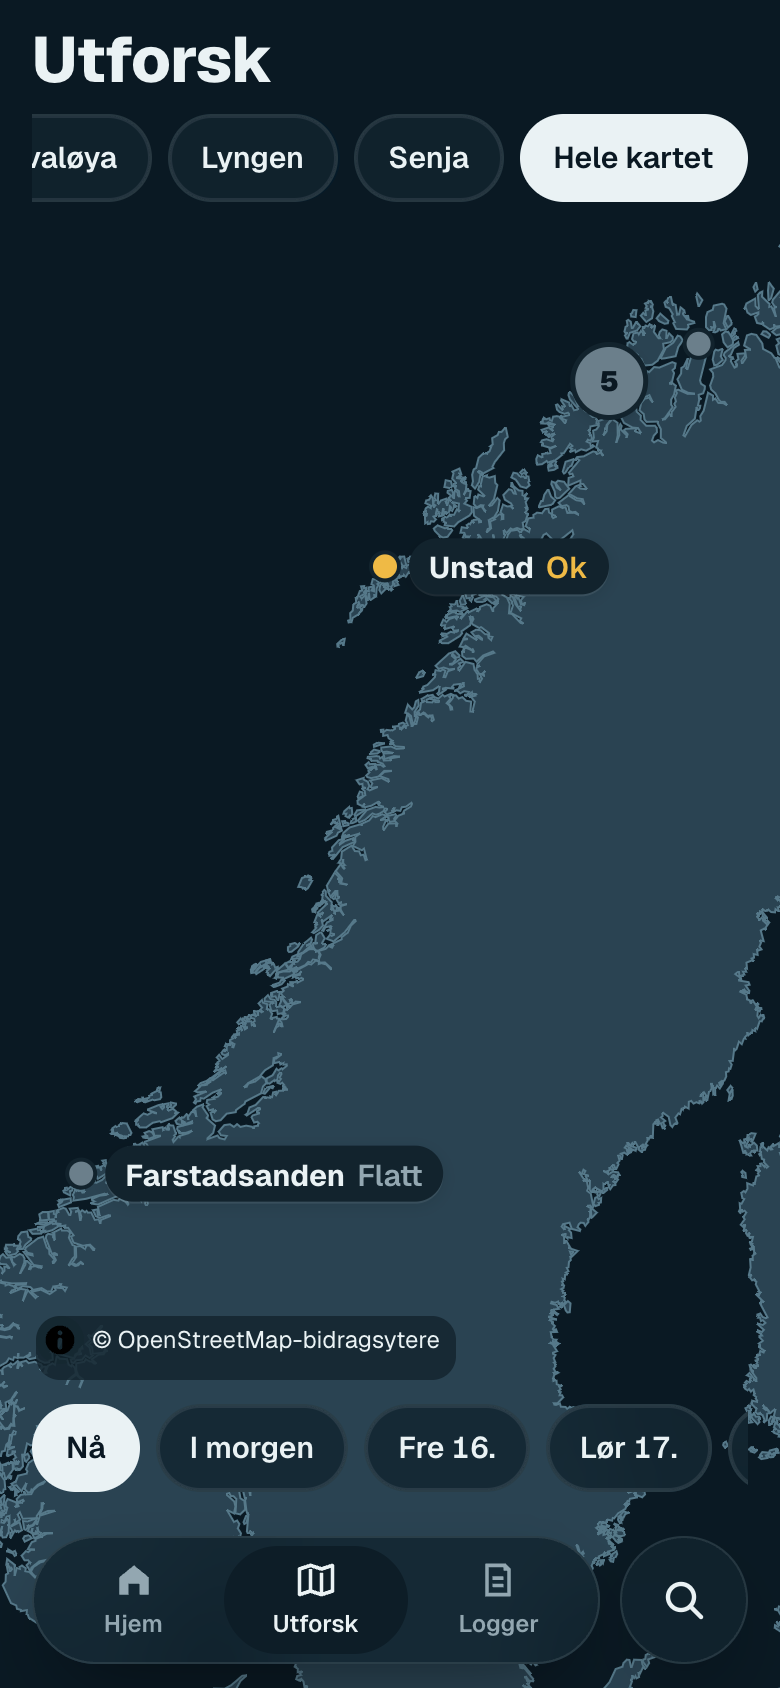
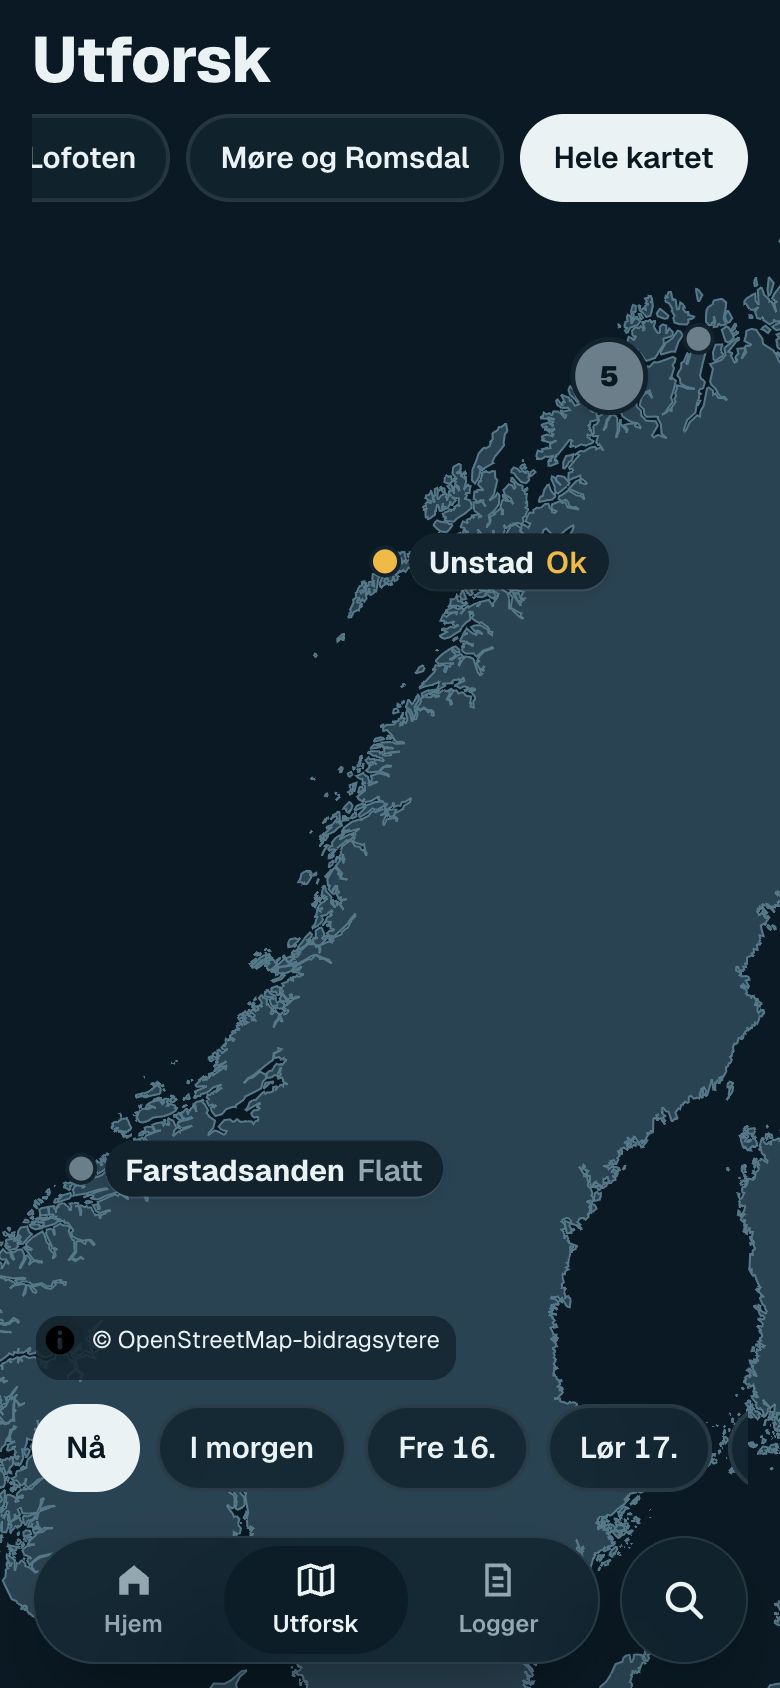
S3: Theodors rettelser b-d - lapper unna kildemerket og brikkene, regionbrikker, maks zoom 12
(b) Lappene unngår kildemerket, tids-/regionbrikkene og knappene over kartet; utsnittet får luft nederst
    så ingen spot havner under kildemerket. (c) Brikkene er regionene fra spots.json (testen sendte
    regions_cfg inn til publish.split, så regionen falt tilbake til område - i produksjonen var de riktige).
(d) Maks zoom 12 - det detaljflisene har detaljer for (forenklet til en halv piksel på z12).
Test: kanten (fire kanter × zoom 4-12, ingen akserett kyststrek over 64 px), brikkene, ingen lapp/prikk
over kildemerket. Nye skjermbilder.

diff --git a/docs/js/kart.js b/docs/js/kart.js
@@ -5,7 +5,7 @@
    (docs/vendor/, selvhostet) med land og kyst for hele Norge fra docs/geo/norge-*.pmtiles
    (tools/lag_kartfliser.py, OpenStreetMap, ODbL). MapLibre tegner bare land/hav/kyst - merker,
    klynger, lapper og kort er HTML over kartet som før (ingen tekst i kartstilen, ingen glyph-filer).
-   Ingen rotasjon eller tilt; maxBounds rundt Norge, zoom 4-14; fargene følger systemtemaet live.
+   Ingen rotasjon eller tilt; maxBounds rundt Norge, zoom 4-12 (MAX_ZOOM); fargene følger systemtemaet live.
 
    Merker: prikk + lapp «Navn Ord», lappen prøver høyre, venstre, over og under - er det ikke
    plass, bare prikken. Klynging: merker nærmere hverandre enn CLUSTER_PX på skjermen slås
@@ -17,7 +17,11 @@
 (function(){
   const CLUSTER_PX = 48, PH = 28, GAP = 12;
   const BOUNDS = [[1.0, 56.3], [34.0, 72.3]];          // maxBounds: fastlands-Norge med luft
-  const COVER = {s: 56.8, w: 2.0, n: 71.8, e: 33.0};     // flisene dekker dette (tools/lag_kartfliser.py)
+  // flisene dekker mer enn maxBounds (tools/lag_kartfliser.py, ramme -1..36 Ø, 55..73,5 N), så hele det synlige kartet har land
+  const COVER = {s: BOUNDS[0][1], w: BOUNDS[0][0], n: BOUNDS[1][1], e: BOUNDS[1][0]};
+  // Theodor 16.10: kysten er grov helt inne på en spot. Detaljflisene går til z12 (forenklet til en halv piksel der) -
+  // over z12 forstørres de bare, så maks zoom settes dit dataene faktisk har detaljer. Finere kyst rundt spotene: ROADMAP S3.
+  const MAX_ZOOM = 12;
   const OVERSIKT_MAX = 7;                                 // norge-oversikt.pmtiles z0-7, norge-detalj.pmtiles z8+
   const merc = (lat)=> Math.log(Math.tan(Math.PI/4 + lat*Math.PI/360));
   const esc = (s)=> String(s).replace(/[&<>"]/g, c=>({"&":"&amp;","<":"&lt;",">":"&gt;",'"':"&quot;"}[c]));
@@ -39,9 +43,10 @@
       },
       layers: [
         {id: "hav", type: "background", paint: {"background-color": c.sea}},
-        // oversikten (precachet) til og med z7; detaljen fra z8 (hentes og mellomlagres ved bruk). Den grove
-        // oversikten kan ikke ligge under detaljen på høy zoom - den dekker sjø nær kysten.
+        // oversikten (precachet) til og med z7. Fra z8: detaljflisene finnes bare der det er kyst innen 1 km; inne på land
+        // fyller oversiktens «kjerne» (landet krympet 600 m innover, tools/lag_kartfliser.py) - den når aldri ut i sjøen.
         {id: "land-lav", type: "fill", source: "lav", "source-layer": "land", maxzoom: OVERSIKT_MAX + 1, paint: {"fill-color": c.land}},
+        {id: "kjerne-lav", type: "fill", source: "lav", "source-layer": "kjerne", minzoom: OVERSIKT_MAX + 1, paint: {"fill-color": c.land}},
         {id: "land-hoy", type: "fill", source: "hoy", "source-layer": "land", minzoom: OVERSIKT_MAX + 1, paint: {"fill-color": c.land}},
         {id: "kyst-lav", type: "line", source: "lav", "source-layer": "kyst", maxzoom: OVERSIKT_MAX + 1, paint: {"line-color": c.coast, "line-width": 1}},
         {id: "kyst-hoy", type: "line", source: "hoy", "source-layer": "kyst", minzoom: OVERSIKT_MAX + 1, paint: {"line-color": c.coast, "line-width": ["interpolate", ["linear"], ["zoom"], 8, 1, 14, 1.6]}},
@@ -52,7 +57,7 @@
     if(!map || !map.isStyleLoaded()) return;
     const c = colors();
     map.setPaintProperty("hav", "background-color", c.sea);
-    for(const id of ["land-lav", "land-hoy"]) map.setPaintProperty(id, "fill-color", c.land);
+    for(const id of ["land-lav", "kjerne-lav", "land-hoy"]) map.setPaintProperty(id, "fill-color", c.land);
     for(const id of ["kyst-lav", "kyst-hoy"]) map.setPaintProperty(id, "line-color", c.coast);
   }
   // MapLibre (1 MB) og PMTiles lastes først når Utforsk åpnes - Hjem skal ikke vente på dem
@@ -85,7 +90,7 @@
       const tGl = performance.now();
       map = new maplibregl.Map({
         container: root.querySelector("#mlKart"), style: style(), bounds: [[4, 57.5], [31.5, 71.3]],
-        maxBounds: BOUNDS, minZoom: 4, maxZoom: 14, maxPitch: 0, pitchWithRotate: false, dragRotate: false, touchPitch: false,
+        maxBounds: BOUNDS, minZoom: 4, maxZoom: MAX_ZOOM, maxPitch: 0, pitchWithRotate: false, dragRotate: false, touchPitch: false,
         renderWorldCopies: false, attributionControl: false, fadeDuration: 0, keyboard: true,
       });
       window.__kartOppsettMs = performance.now() - tGl;   // WebGL-kontekst og shadere (testene skiller dette ut)
@@ -105,13 +110,15 @@
     setExtent(ext, animate){
       if(!map) return;
       const W = root.clientWidth || 390, Hh = root.clientHeight || 600, pad = Math.min(60, area.w * 0.08);
-      const padding = {top: area.y + pad, bottom: Math.max(pad, Hh - (area.y + area.h) + pad), left: area.x + pad, right: Math.max(pad, W - (area.x + area.w) + pad)};
-      map.fitBounds([[ext[1], ext[0]], [ext[3], ext[2]]], {padding, duration: animate && !reduced() ? 700 : 0, maxZoom: 13});
+      // ekstra luft nederst til kildemerket (© OpenStreetMap-bidragsytere), så ingen spot havner under det
+      const attr = root.querySelector(".maplibregl-ctrl-bottom-left"), aH = attr ? attr.getBoundingClientRect().height : 30;
+      const padding = {top: area.y + pad, bottom: Math.max(pad, Hh - (area.y + area.h) + pad) + aH, left: area.x + pad, right: Math.max(pad, W - (area.x + area.w) + pad)};
+      map.fitBounds([[ext[1], ext[0]], [ext[3], ext[2]]], {padding, duration: animate && !reduced() ? 700 : 0, maxZoom: MAX_ZOOM});
     },
     toScreen(lat, lon){ if(!map) return {x: -1e4, y: -1e4}; const p = map.project([lon, lat]); return {x: p.x, y: p.y}; },
     extent(){ if(!map) return null; const b = map.getBounds(); return [b.getSouth(), b.getWest(), b.getNorth(), b.getEast()]; },
     resize(){ if(map) map.resize(); },
-    zoomIn(lat, lon){ if(map) map.easeTo({center: [lon, lat], zoom: Math.min(14, map.getZoom() + 2), duration: reduced() ? 0 : 500}); },
+    zoomIn(lat, lon){ if(map) map.easeTo({center: [lon, lat], zoom: Math.min(MAX_ZOOM, map.getZoom() + 2), duration: reduced() ? 0 : 500}); },
     drawCoast(){ /* MapLibre tegner kysten selv (flisene) */ },
     thumbSvg(points, colorOf){
       if(!coast || !thumbProj) return "";
@@ -160,14 +167,28 @@
     }
     return groups;
   }
+  const OVERLAY_SEL = ".maplibregl-ctrl-attrib, .maplibregl-ctrl, #viewUtforsk button, #viewUtforsk a, #viewUtforsk [data-kart-hinder]";
+  function overlays(){
+    // boksene (i markørlagets koordinater, med 4 px luft) til alt som ligger over kartet og ikke er merker/klynger
+    const base = markersEl.getBoundingClientRect(), out = [];
+    for(const e of document.querySelectorAll(OVERLAY_SEL)){
+      if(markersEl.contains(e)) continue;
+      const r = e.getBoundingClientRect();
+      if(!r.width || !r.height || r.right <= base.left || r.left >= base.right || r.bottom <= base.top || r.top >= base.bottom) continue;
+      out.push({x: r.left - base.left - 4, y: r.top - base.top - 4, w: r.width + 8, h: r.height + 8});
+    }
+    return out;
+  }
   function draw(){
     if(!markersEl) return;
     const t0 = performance.now();
     const groups = clusters();
     const html = [];
     const placed = [];   // lapper plassert, til kollisjonssjekk
-    // hindre for lappene: prikker (14 px) og klyngeringer (34 px)
+    // hindre for lappene: prikker (14 px) og klyngeringer (34 px), og det som ligger over kartet - kildemerket,
+    // tids- og regionbrikkene og andre knapper (Theodor 16.10: kildemerket kolliderte med Farstadsanden-lappen på PC)
     const dots = groups.map(g=> g.members.length > 1 ? {x: g.x - 17, y: g.y - 17, w: 34, h: 34} : {x: g.x - 7, y: g.y - 7, w: 14, h: 14});
+    dots.push(...overlays());
     const hit = (r)=> placed.some(q=> r.x < q.x+q.w && r.x+r.w > q.x && r.y < q.y+q.h && r.y+r.h > q.y) || dots.some(q=> r.x < q.x+q.w && r.x+r.w > q.x && r.y < q.y+q.h && r.y+r.h > q.y);
     // valgt først (beholder lappen), så flest stjerner
     const order = groups.map((g, i)=>({g, i})).sort((a, b)=> (b.g.members.some(m=>m.p.id===selected) ? 1 : 0) - (a.g.members.some(m=>m.p.id===selected) ? 1 : 0) || Math.max(...b.g.members.map(m=>m.v.st||0)) - Math.max(...a.g.members.map(m=>m.v.st||0)));

diff --git a/docs/sw.js b/docs/sw.js
@@ -4,7 +4,7 @@
 // hånd. Må stemme med filene, ellers oppdager ikke nettleseren at
 // sw.js-scriptet er likt som før og lar være å hente nytt innhold, sjøl om
 // siden er pushet (se CLAUDE.md sin arbeidsmåte og STATUS.md, 26.09-03.10.2026).
-const CACHE = "nordsurf-e8b980d34af3";
+const CACHE = "nordsurf-16a1061eb5bb";
 const TILES = CACHE + "-fliser";   // detaljflisene (range-biter), eget tak - byttes sammen med CACHE
 const TILES_MAX_ENTRIES = 600;      // ca. 600 range-biter à 1-60 KB: under ca. 15 MB
 // S3 (16.10.2026): listen hadde to filer som ikke finnes (css/kart.css, js/front.js) - da feiler

diff --git a/fetcher/test_kart_browser.py b/fetcher/test_kart_browser.py
@@ -8,7 +8,7 @@ som GitHub Pages (fetcher/testserver.py), fast klokke.
       WebGL-oppsettet i SwiftShader (ca. 1,2 s i headless uansett CPU - se kommentaren i testen);
    b. panorering og zoom (easeTo, 1 s hver) minst 50 bilder per sekund (requestAnimationFrame);
    c. klyngene oppdateres på under 100 ms ved dagbytte (kart.js måler draw() i dataset.ms).
-2. Samhandling: ingen rotasjon eller tilt (bearing/pitch 0 etter forsøk), zoom 4-14, maxBounds rundt
+2. Samhandling: ingen rotasjon eller tilt (bearing/pitch 0 etter forsøk), zoom 4-12, maxBounds rundt
    Norge, trykk på en klynge zoomer inn, regionene i sør er vanlige brikker (ingen «↓»-brikker).
 3. Tema følger systemet live: bytte prefers-color-scheme uten omlasting endrer havfargen i kartet.
 4. Uten nett (service worker): kartet åpnes og oversiktsflisene tegnes; detaljfliser som er sett
@@ -61,8 +61,9 @@ def _watchdog():
 
 
 def bodies(n=None):
-    fc = FORECAST
-    regions_cfg = json.loads((ROOT / "spots.json").read_text(encoding="utf-8")).get("regions")
+    # de 8 ekte: regions_cfg=None, så publish henter region (og rekkefølgen) fra spots.json som i produksjonen
+    # (16.10: med regions_cfg sendt inn falt regionen tilbake til område - brikkene ble Kvaløya/Lyngen/Senja)
+    fc, regions_cfg = FORECAST, None
     if n:
         fc, regions_cfg = synthetic_spots.make(FORECAST, n)
     overview, details = publish.split(fc, regions_cfg=regions_cfg)
@@ -154,7 +155,7 @@ def main():
             m = page.evaluate("""() => { const m = window.__kart; m.setBearing(40); m.setPitch(50);
                 return {b: m.getBearing(), p: m.getPitch(), rot: m.dragRotate.isEnabled(), min: m.getMinZoom(), max: m.getMaxZoom(), mb: m.getMaxBounds().toArray()}; }""")
             # setBearing via API er lov for koden, men brukeren skal ikke kunne rotere: dra/klyp/tastatur er av
-            assert m["p"] == 0 and not m["rot"] and m["min"] == 4 and m["max"] == 14, m
+            assert m["p"] == 0 and not m["rot"] and m["min"] == 4 and m["max"] == 12, m   # maks zoom 12: det detaljflisene har detaljer for (Theodor 16.10)
             page.evaluate("window.__kart.setBearing(0)")
             page.keyboard.press("Shift+ArrowLeft")
             assert abs(page.evaluate("window.__kart.getBearing()")) < 1e-6, "tastaturet roterer kartet"
@@ -165,7 +166,7 @@ def main():
             assert kl, "fant ingen klynge å trykke på"
             kl.click()
             page.wait_for_function(f"window.__kart.getZoom() > {z0 + 0.5} && !window.__kart.isMoving()")
-            print(f"2: ingen rotasjon/tilt, zoom 4-14, maxBounds rundt Norge, ingen «↓»-brikker, klynge zoomer inn ({z0:.1f} → {page.evaluate('window.__kart.getZoom()'):.1f}) - OK")
+            print(f"2: ingen rotasjon/tilt, zoom 4-12, maxBounds rundt Norge, ingen «↓»-brikker, klynge zoomer inn ({z0:.1f} → {page.evaluate('window.__kart.getZoom()'):.1f}) - OK")
 
             # ---- 3. tema live ----
             before = page.evaluate("window.__kart.getPaintProperty('hav', 'background-color')")
@@ -210,6 +211,42 @@ def main():
             ctx.set_offline(False)
             ctx.close()
 
+            # ---- 4b. kanten (Theodor 16.10: landet stoppet i en loddrett strek i øst) ----
+            # dataene er klippet mot en ramme STØRRE enn maxBounds, og kysten er OSM-linjer: ved alle fire kanter av
+            # maxBounds og på zoom 4-12 skal ingen kyststrek ligge langs rammen, og i øst skal det være land helt ut
+            ctx, page = new_page((1440, 900))
+            route_data(page, ov8, det8)
+            page.goto(base + "#utforsk")
+            page.wait_for_function(READY_JS)
+            FRAME = (-1.0, 55.0, 36.0, 73.5)
+            edges = {"vest": (1.6, 62.0), "øst": (33.4, 69.2), "sør": (9.0, 56.9), "nord": (25.0, 71.7)}
+            checked = 0
+            for name, (lon, lat) in edges.items():
+                for z in (4, 6, 8, 10, 12):
+                    page.evaluate(f"window.__kart.jumpTo({{center: [{lon}, {lat}], zoom: {z}}})")
+                    page.wait_for_function("window.__kart.areTilesLoaded() && !window.__kart.isMoving()")
+                    # (1) ingen segment langs dagens dataramme; (2) generelt: ingen helt loddrett/vannrett kyststrek over 64 px
+                    # på skjermen (en klippekant, uansett hvor rammen ligger - slik den gamle kanten ved 33° Ø så ut; korte
+                    # akserette biter finnes naturlig fordi flisekoordinatene er heltall)
+                    on_frame = page.evaluate("""(F) => { const near = (a, b) => Math.abs(a - b) < 1e-3; let n = 0;
+                        const px = (a, b) => { const p = window.__kart.project(a), q = window.__kart.project(b); return Math.hypot(p.x - q.x, p.y - q.y); };
+                        for(const f of window.__kart.queryRenderedFeatures({layers: ['kyst-lav', 'kyst-hoy']})){
+                          const g = f.geometry, lines = g.type === 'LineString' ? [g.coordinates] : g.type === 'MultiLineString' ? g.coordinates : [];
+                          for(const l of lines) for(let i = 1; i < l.length; i++){ const [a, b] = [l[i-1], l[i]];
+                            if((near(a[0], F[0]) && near(b[0], F[0])) || (near(a[0], F[2]) && near(b[0], F[2])) || (near(a[1], F[1]) && near(b[1], F[1])) || (near(a[1], F[3]) && near(b[1], F[3]))) n++;
+                            else if((Math.abs(a[0] - b[0]) < 1e-6 || Math.abs(a[1] - b[1]) < 1e-6) && px(a, b) > 64) n++; } }
+                        return n; }""", list(FRAME))
+                    assert on_frame == 0, f"kyststrek langs datarammen ved {name}-kanten, zoom {z}: {on_frame} segmenter"
+                    checked += 1
+            # øst: kartets høyre kant (34° Ø) ved 69° N er land (Russland) - fylt, ikke en strek
+            page.evaluate("window.__kart.jumpTo({center: [33.0, 69.0], zoom: 6})")
+            page.wait_for_function("window.__kart.areTilesLoaded() && !window.__kart.isMoving()")
+            x_edge = page.evaluate("window.__kart.project([33.95, 69.0]).x")
+            land_e = page.evaluate(f"window.__kart.queryRenderedFeatures([{x_edge}, window.__kart.project([33.95, 69.0]).y], {{layers: ['land-lav', 'land-hoy']}}).length")
+            assert land_e > 0, "ikke land helt ut i østkanten (34° Ø, 69° N)"
+            print(f"4b: ingen kyststrek langs datarammen ved fire kanter × fem zoomnivåer ({checked} sjekker), land helt ut i øst - OK")
+            ctx.close()
+
             # ---- 5. skjermbilder (varselets 8 spots) ----
             for label, vp in (("mobil", (390, 844)), ("pc", (1440, 900))):
                 for scheme, sname in (("light", "lys"), ("dark", "mork")):
@@ -222,8 +259,24 @@ def main():
                         page.wait_for_function("window.__kart.areTilesLoaded() && !window.__kart.isMoving()")
                         page.wait_for_timeout(250)
                         page.screenshot(path=str(SHOT_DIR / f"{name}_{label}_{sname}.png"))
+                    # brikkene er regionene fra spots.json i rekkefølgen der (nord til sør), aldri område
+                    chips = page.evaluate("[...document.querySelectorAll('#utforskChips [data-view]')].map(b => b.textContent.trim())")
+                    want = [r["name"] for r in json.loads(ov8)["regions"]]
+                    assert chips == want + ["Hele kartet"], (chips, want)
                     page.click("#utforskChips [data-view='']")
                     shot("hele-kysten")
+                    # ingen lapp oppå kildemerket, tids-/regionbrikkene eller andre knapper over kartet
+                    bad = page.evaluate("""() => { const pills = [...document.querySelectorAll('#markersLayer .mk-pill')].map(e => e.getBoundingClientRect());
+                        const obs = [...document.querySelectorAll('.maplibregl-ctrl-attrib, #utforskChips .chip, #dagChips .chip, #viewUtforsk button:not(.mk):not(.klynge)')]
+                            .filter(e => !e.closest('#markersLayer')).map(e => [e.className || e.id, e.getBoundingClientRect()]).filter(([, r]) => r.width && r.height);
+                        const out = []; for(const p of pills) for(const [n, r] of obs)
+                            if(p.left < r.right - 1 && p.right > r.left + 1 && p.top < r.bottom - 1 && p.bottom > r.top + 1) out.push(n); return out; }""")
+                    assert not bad, f"lapp over {bad} ({label}, {sname})"
+                    # ingen spot-prikk under kildemerket i «Hele kartet»
+                    under = page.evaluate("""() => { const a = document.querySelector('.maplibregl-ctrl-attrib').getBoundingClientRect();
+                        return [...document.querySelectorAll('#markersLayer .mk-dot, #markersLayer .klynge .ring')].map(e => e.getBoundingClientRect())
+                          .filter(r => r.left < a.right && r.right > a.left && r.top < a.bottom && r.bottom > a.top).length; }""")
+                    assert under == 0, f"{under} prikker under kildemerket ({label}, {sname})"
                     page.click("#utforskChips [data-view='Lofoten']")
                     shot("region-lofoten")
                     page.evaluate("window.__kart.jumpTo({center: [13.585, 68.268], zoom: 13})")
@@ -233,6 +286,7 @@ def main():
                         mk.click()
                     shot("spot-unstad")
                     ctx.close()
+            print("5b: Utforsk-brikkene er regionene (nord til sør), ingen lapp over kildemerket/brikkene/knappene - OK")
             print(f"5: {len(list(SHOT_DIR.glob('*.png')))} skjermbilder i {SHOT_DIR.relative_to(ROOT)} - OK")
             browser.close()
     finally:
